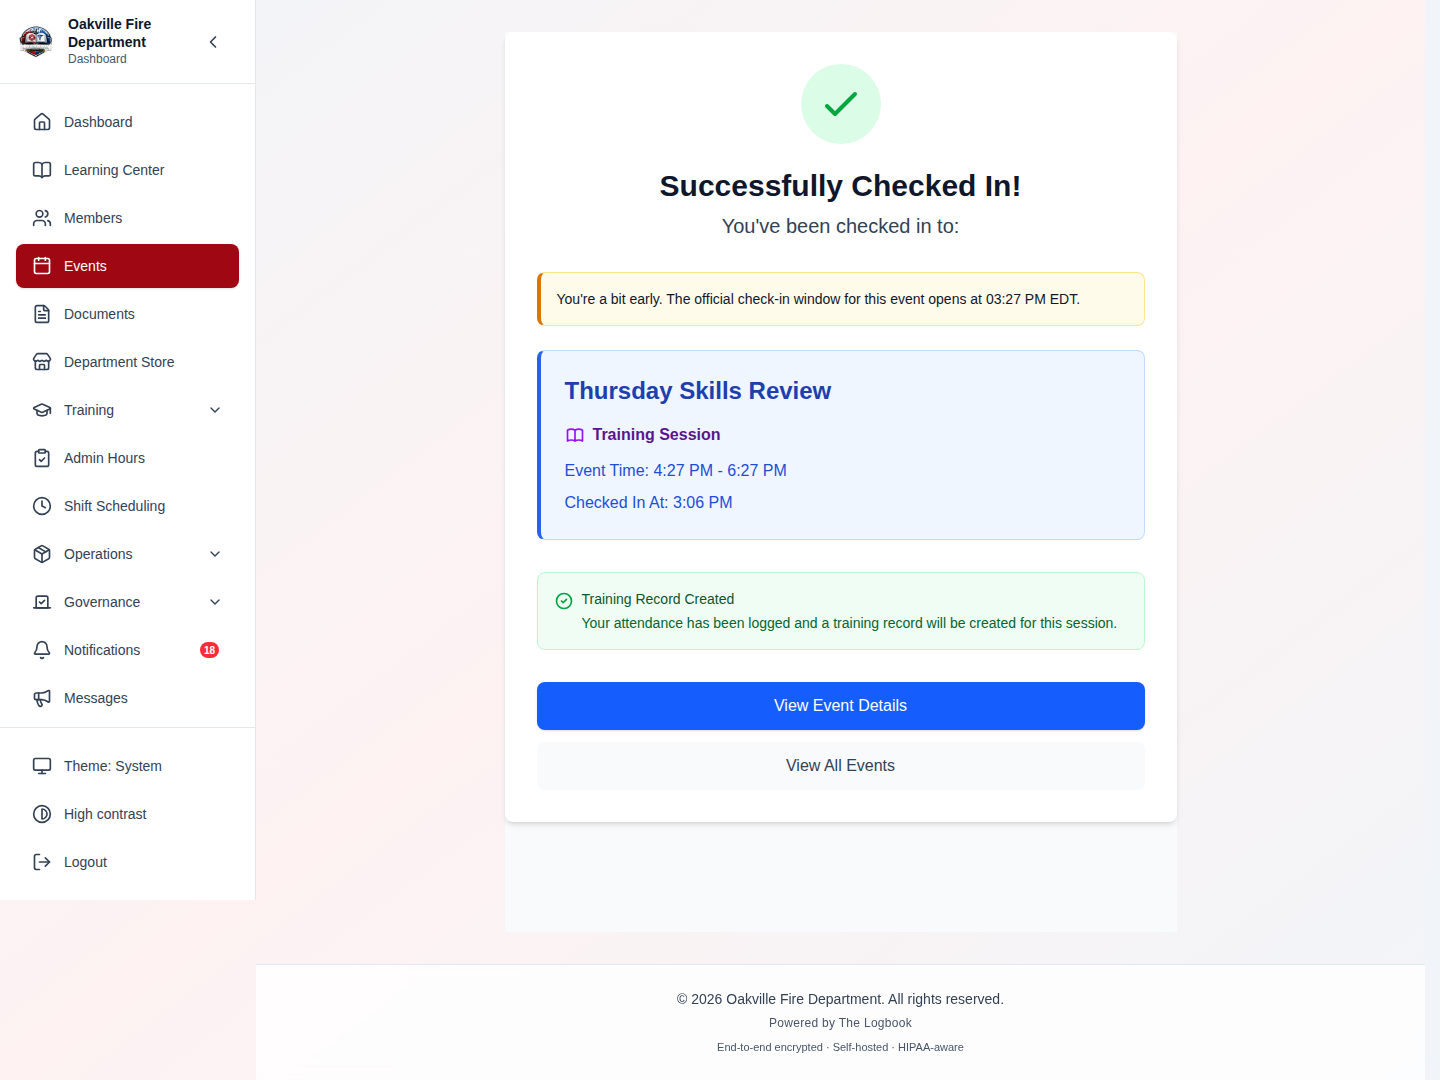
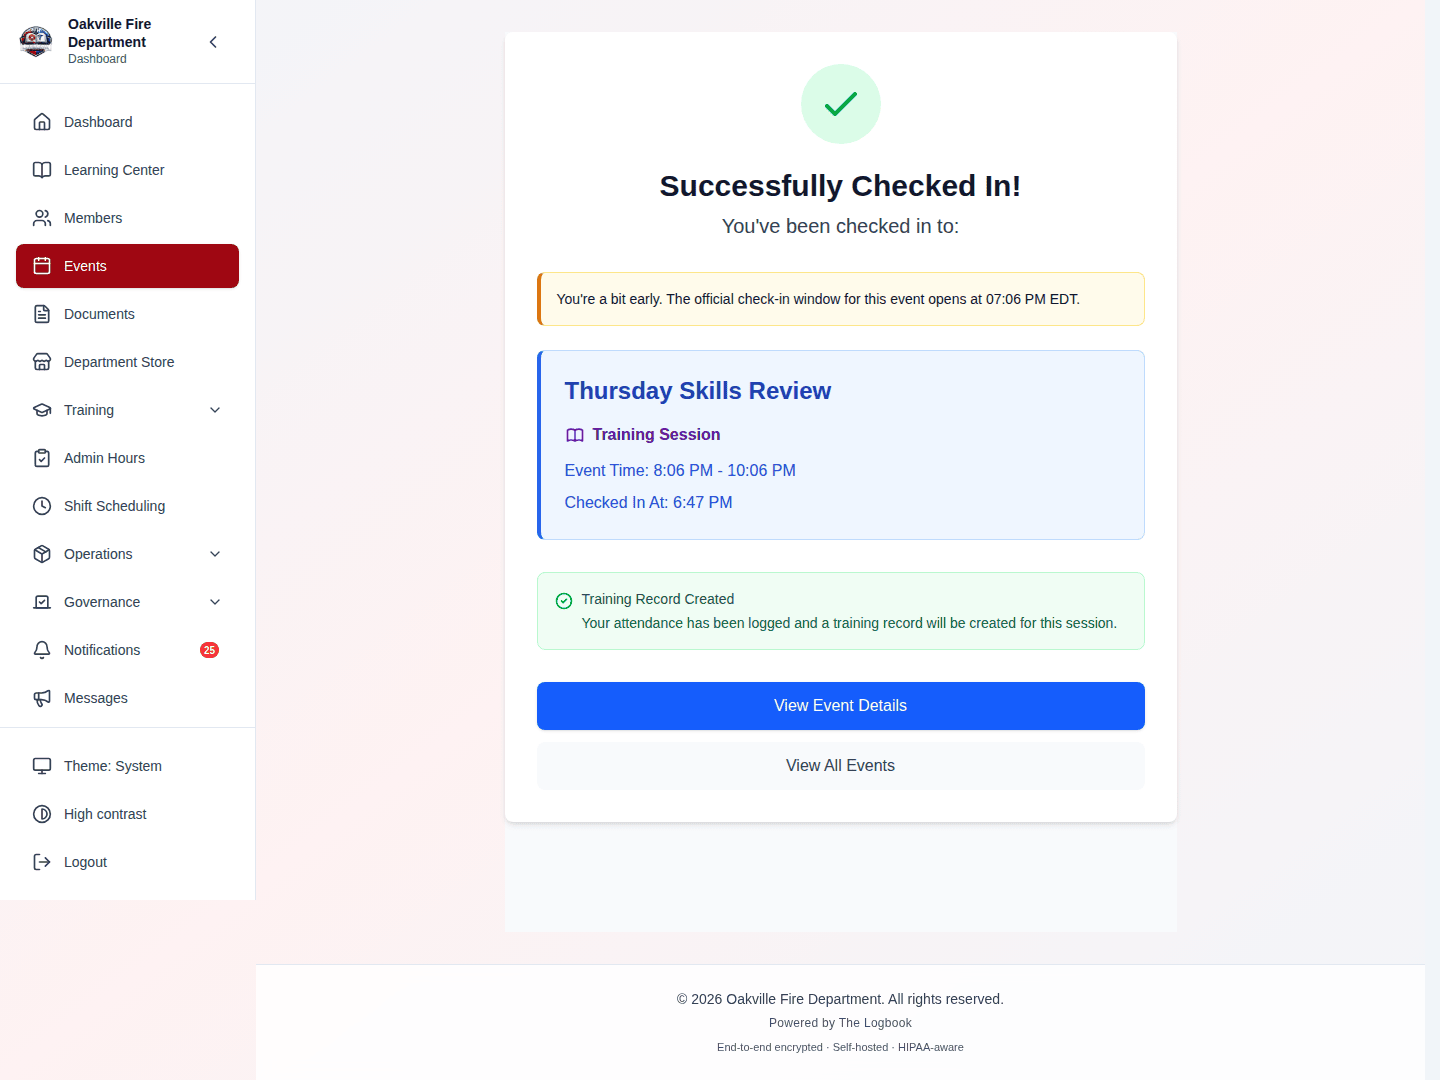
Fix four review findings: a 500 on the display endpoint, and three one-shot fixtures
All four held up under checking.

QRCheckInData gained can_check_in as a required field. The public kiosk was
updated to pass it; the authenticated /locations/{id}/display constructs the
same model field by field and was not, so it raised a ValidationError for any
location with an event in its check-in window -- the only state that endpoint
exists to report. Hardcoded True there for the same reason is_valid is:
get_current_events_in_check_in_window filters on the strict window before this
loop sees an event, and the permissive rule admits everything the strict one
does. tests/test_location_display_endpoint.py is new and covers the gap that
let it through: the existing tests cover the query that feeds the loop, and the
other endpoint, but never this one's response. Three of its four cases fail
with the fix reverted.

03-84 waits for a "Platoon A Roster" heading, but the seeder prepared the first
generated occurrence and the manifest opened the first shift carrying any
platoon. Which platoon lands on day 35 depends on the rotation offset and so on
today's date, and the two halves could disagree besides. Both now select
platoon A by name.

_open_two_platoon_seats freed the last two assignments unconditionally, so a
re-seed took the shift from six on duty to four, then two, and raised another
leave request each pass. Now guarded on the roster's own statuses -- one
available and one on_leave is what the shot needs. Verified 6/1/1 holds across
a re-seed.
[…]

diff --git a/scripts/screenshots/seed_demo_data.py b/scripts/screenshots/seed_demo_data.py
@@ -2375,7 +2375,9 @@ class Seeder:
             None,
         )
         if existing and pick(existing, "id"):
-            return self.api.patch(f"/events/{pick(existing, 'id')}", window)
+            event = self.api.patch(f"/events/{pick(existing, 'id')}", window)
+            self._clear_early_checkin_rsvp(pick(existing, "id"))
+            return event
         return self.api.post(
             "/events",
             {
@@ -2392,6 +2394,38 @@ class Seeder:
                 **window,
             },
         )
+
+    def _clear_early_checkin_rsvp(self, event_id: str) -> None:
+        """Un-check-in the member `04-49` signs in as, before the next capture.
+
+        The capture is a real check-in: `self_check_in` creates the RSVP and
+        stamps it. Sliding the window forward on a re-seed is not enough on its
+        own — a second capture takes the ALREADY_CHECKED_IN path, which returns
+        no early-arrival notice at all, and the shot waits on the notice and
+        times out. Removing the RSVP puts the member back to never having
+        responded, which is the state the shot starts from.
+        """
+        member_id = next(
+            (
+                pick(u, "id")
+                for u in items(self.api.get("/users?limit=200"), "users")
+                if pick(u, "username") == DEMO_MEMBER_USERNAME
+            ),
+            None,
+        )
+        if not member_id:
+            return
+        try:
+            self.api.delete(f"/events/{event_id}/rsvps/{member_id}")
+        except ApiError as exc:
+            # "RSVP not found" is the ordinary case — she has not responded to
+            # this event, which is exactly the state wanted. Reported as a 400
+            # rather than a 404, so the message is what this matches on.
+            if not (
+                exc.code == 404
+                or (exc.code == 400 and "RSVP not found" in str(exc.detail))
+            ):
+                raise
 
     # -- scheduling --------------------------------------------------
 
@@ -9064,6 +9098,10 @@ class Seeder:
     #: members taken off its shift so the roster has something to say: one
     #: booked off, one free to be held over.
     PLATOON_NAMES = ("A", "B", "C")
+    #: The one whose roster `03-84` photographs, named in the shot's own
+    #: heading match — so the fixture has to prepare this platoon and not
+    #: whichever happens to be on duty first in the generated window.
+    ROSTER_PLATOON = "A"
     PLATOON_PATTERN_NAME = "A/B/C Platoon Rotation"
     #: Far enough out that no board, dashboard or open-shift count the guides
     #: already picture reaches these shifts. The roster shot opens its shift by
@@ -9121,45 +9159,72 @@ class Seeder:
             {"schedule_config": {"platoons": list(self.PLATOON_NAMES)}},
         )
 
+        # Three days, one platoon on duty per day under a 1-on/2-off rotation,
+        # so the window always contains exactly one occurrence of each.
         first = TODAY + timedelta(days=self.PLATOON_SHIFT_DAYS_AHEAD)
         last = first + timedelta(days=2)
-        existing = [
-            sh
-            for sh in items(
-                self.api.get(
-                    f"/scheduling/shifts?start_date={first}&end_date={last}&limit=50"
+
+        def _target_shift() -> dict | None:
+            """The A occurrence, by name rather than by position.
+
+            Which platoon lands on the first day of the window depends on the
+            rotation offset and therefore on today's date. Taking the first
+            generated shift prepared whichever platoon happened to be on that
+            day while `03-84` waits for the "Platoon A Roster" heading — green
+            on the date it was written and a timeout on most others.
+            """
+            return next(
+                (
+                    sh
+                    for sh in items(
+                        self.api.get(
+                            f"/scheduling/shifts?start_date={first}"
+                            f"&end_date={last}&limit=50"
+                        ),
+                        "shifts",
+                    )
+                    if pick(sh, "platoon") == self.ROSTER_PLATOON
                 ),
-                "shifts",
+                None,
             )
-            if pick(sh, "platoon")
-        ]
-        if not existing:
+
+        shift = _target_shift()
+        if not shift:
             self.api.post(
                 f"/scheduling/patterns/{pick(pattern, 'id')}/generate",
                 {"start_date": str(first), "end_date": str(last)},
             )
-            existing = [
-                sh
-                for sh in items(
-                    self.api.get(
-                        f"/scheduling/shifts?start_date={first}"
-                        f"&end_date={last}&limit=50"
-                    ),
-                    "shifts",
-                )
-                if pick(sh, "platoon")
-            ]
-        shift = existing[0] if existing else None
+            shift = _target_shift()
         if not shift:
-            self.blocked.append("platoon roster: the pattern generated no shift")
+            self.blocked.append(
+                f"platoon roster: no Platoon {self.ROSTER_PLATOON} shift in "
+                f"{first}..{last}"
+            )
             return None
 
         self._open_two_platoon_seats(shift)
         return shift
 
     def _open_two_platoon_seats(self, shift: dict) -> None:
-        """Take two of the platoon off this shift, one of them on leave."""
+        """Take two of the platoon off this shift, one of them on leave.
+
+        Guarded on the roster's own statuses rather than on "have I run
+        before". Freeing the last two assignments unconditionally cost the
+        shift two more members on every re-seed — six on shift became four,
+        then two — so a database that was meant to be repairable by re-seeding
+        instead drifted further from the capture each time, and each pass also
+        raised another leave request.
+
+        The states the shot needs are one `available` and one `on_leave`, so
+        that is what this checks for.
+        """
         shift_id = pick(shift, "id")
+        detail = self.api.get(f"/scheduling/shifts/{shift_id}")
+        roster = detail.get("platoon_roster") or []
+        have = {str(entry.get("status")) for entry in roster}
+        if {"available", "on_leave"} <= have:
+            return
+
         assignments = items(
             self.api.get(f"/scheduling/shifts/{shift_id}/assignments"), "assignments"
         )

diff --git a/backend/tests/test_location_display_endpoint.py b/backend/tests/test_location_display_endpoint.py
@@ -1,0 +1,111 @@
+"""
+The authenticated location display endpoint builds a real QRCheckInData.
+
+`app/api/v1/endpoints/locations.py` constructs the schema field by field, so
+every field the schema requires has to be passed there explicitly. When
+`can_check_in` was added as a required field, the public kiosk
+(`app/api/public/display.py`) was updated and this endpoint was not — and
+because it constructs the model rather than returning a dict, the omission is
+not a wrong value but a `ValidationError`: the endpoint 500s for any location
+that has an event in its check-in window, which is the only state it exists to
+report.
+
+Nothing caught it. `test_kiosk_check_in_window.py` covers
+`LocationService.get_current_events_in_check_in_window` — the query that feeds
+this loop — and stops there, and `test_public_display.py` covers the other
+endpoint. This file closes that gap: it calls the endpoint with an event in
+window and asserts the response is built.
+
+LocationService is mocked; no DB.
+"""
+
+from datetime import datetime, timedelta
+from datetime import timezone as tz
+from types import SimpleNamespace
+from unittest.mock import AsyncMock
+from uuid import uuid4
+
+import pytest
+
+import app.api.v1.endpoints.locations as locations
+from app.models.event import CheckInWindowType
+
+pytestmark = [pytest.mark.unit]
+
+NOW = datetime.now(tz.utc)
+LOC_ID = uuid4()
+
+
+def _event(window_type=CheckInWindowType.FLEXIBLE, starts_in_minutes=20):
+    start = NOW + timedelta(minutes=starts_in_minutes)
+    return SimpleNamespace(
+        id=uuid4(),
+        title="Monthly Meeting",
+        event_type=None,
+        description="Business meeting",
+        start_datetime=start,
+        end_datetime=start + timedelta(hours=1),
+        actual_start_time=None,
+        actual_end_time=None,
+        location="Hall A",
+        location_id=None,
+        require_checkout=False,
+        check_in_window_type=window_type,
+        check_in_minutes_before=None,
+        check_in_minutes_after=None,
+    )
+
+
+def _patch_location_service(monkeypatch, events):
+    location = SimpleNamespace(
+        id=str(LOC_ID), organization_id="org-1", name="Station 1"
+    )
+    fake = SimpleNamespace(
+        get_location=AsyncMock(return_value=location),
+        get_current_events_in_check_in_window=AsyncMock(return_value=events),
+    )
+    monkeypatch.setattr(locations, "LocationService", lambda db: fake)
+    return location
+
+
+def _user():
+    return SimpleNamespace(id=uuid4(), organization_id="org-1")
+
+
+async def _call(monkeypatch, events):
+    _patch_location_service(monkeypatch, events)
+    return await locations.get_location_display_info(
+        location_id=LOC_ID, db=AsyncMock(), current_user=_user()
+    )
+
+
+class TestLocationDisplayInfo:
+    async def test_an_event_in_window_is_reported_rather_than_raising(
+        self, monkeypatch
+    ):
+        """The regression: a missing required field here is a 500, not a 0."""
+        result = await _call(monkeypatch, [_event()])
+
+        assert len(result.current_events) == 1
+        assert result.current_events[0]["event_name"] == "Monthly Meeting"
+
+    async def test_a_listed_event_can_be_checked_into(self, monkeypatch):
+        """The service filters on the strict window before this loop sees an
+        event, and the permissive rule admits everything the strict one does —
+        so anything the kiosk lists is something a member can act on."""
+        result = await _call(monkeypatch, [_event()])
+
+        assert result.current_events[0]["is_valid"] is True
+        assert result.current_events[0]["can_check_in"] is True
+
+    async def test_no_events_is_still_a_valid_response(self, monkeypatch):
+        result = await _call(monkeypatch, [])
+
+        assert result.current_events == []
+        assert result.has_overlap is False
+
+    async def test_two_events_at_one_location_report_the_overlap(self, monkeypatch):
+        result = await _call(monkeypatch, [_event(), _event(starts_in_minutes=25)])
+
+        assert len(result.current_events) == 2
+        assert result.has_overlap is True

diff --git a/backend/app/api/v1/endpoints/locations.py b/backend/app/api/v1/endpoints/locations.py
@@ -342,6 +342,13 @@ async def get_location_display_info(
                 check_in_start=check_in_start.isoformat(),
                 check_in_end=check_in_end.isoformat(),
                 is_valid=True,  # Already filtered by check-in window
+                # `get_current_events_in_check_in_window` keeps only events
+                # satisfying `check_in_start <= now <= check_in_end` — the
+                # strict window. Anything the permissive rule adds (the
+                # Flexible/Window early-arrival grace) is a superset of that,
+                # so an event that reached this loop can certainly be checked
+                # into. Hardcoded for the same reason `is_valid` is.
+                can_check_in=True,
                 location=event.location,
                 location_id=str(event.location_id) if event.location_id else None,
                 location_name=location.name,

diff --git a/docs/training/SCREENSHOT_CURRENCY.md b/docs/training/SCREENSHOT_CURRENCY.md
@@ -1,5 +1,57 @@
 # Screenshot currency
 
+## Corrected 2026-08-24 — four review findings on #1794, all real
+
+An automated reviewer read the PR and filed four. Every one held up; three were
+mine, one was in the committed early-check-in work.
+
+**P1 — the authenticated display endpoint was raising, not answering.**
+`can_check_in` was added to `QRCheckInData` as a *required* field. The public
+kiosk (`api/public/display.py`) was updated to pass it; the authenticated
+`/locations/{id}/display` (`api/v1/endpoints/locations.py`) constructs the same
+model field by field and was not — so it raised a `ValidationError` for any
+location with an event in its check-in window, which is the only state that
+endpoint exists to report. Reproduced by constructing the schema without the
+field before touching anything.
+
+Nothing caught it: `test_kiosk_check_in_window.py` covers the *query* that feeds
+the loop and stops there, and `test_public_display.py` covers the other
+endpoint. `tests/test_location_display_endpoint.py` is new and closes that gap —
+3 of its 4 cases fail with the fix reverted. The value is hardcoded `True` for
+the same reason `is_valid` is: the service filters on the strict window before
+this loop sees an event, and the permissive rule admits everything the strict
+one does.
+
+**P2 — `03-84` opened whichever platoon the rotation happened to put first.**
+The seeder prepared `existing[0]` of the generated three-day window and the
+manifest opened the first shift carrying any platoon; the shot then waits for a
+**"Platoon A Roster"** heading. Which platoon lands on day 35 depends on the
+rotation offset and therefore on today's date — green on the day it was written
+and a timeout on most others, and the two halves could disagree with each other
+besides. Both now select platoon A by name.
+
+**P2 — `_open_two_platoon_seats` was subtracting two members per re-seed.** It
+freed the last two assignments unconditionally, so six on shift became four,
+then two, and each pass raised another leave request. A database meant to be
+repairable by re-seeding drifted further from the capture every time. Now
+guarded on the roster's own statuses — one `available` and one `on_leave` is the
+state the shot needs, so that is what it checks for. Verified by re-seeding and
+confirming 6/1/1 holds.
+
+**P2 — `04-49` could be captured exactly once.** The fixture slides its event
+back into the early-arrival band on every run but never reset the member's RSVP,
+and a second check-in takes the ALREADY_CHECKED_IN path, which returns no notice
+at all. The reviewer's mechanism was slightly off — the shot waits on the notice
+itself (`role="status"` appears once on that page), so it would have timed out
+rather than captured the wrong screen — but the fixture was one-shot either way.
+The RSVP is now cleared each run. Verified the hard way: checked the member in
+through the API, re-seeded, checked in again, and the notice came back.
+
+**`04-49` is re-committed at a third of its size.** Re-capturing it was how the
+fix was proved, and `pngquant` was available here where it was not for the run
+that first captured it: 276 KB to 76 KB, same screen. `03-84`/`03-85` were
+re-captured too and their content did not change, so the committed bytes stand.
+
 ## Captured 2026-08-24 (twenty-first) — the platoon roster, and the last marker closed
 
 `03-84`/`03-85`, opened and checked. **504 filled, 0 remaining** — every
